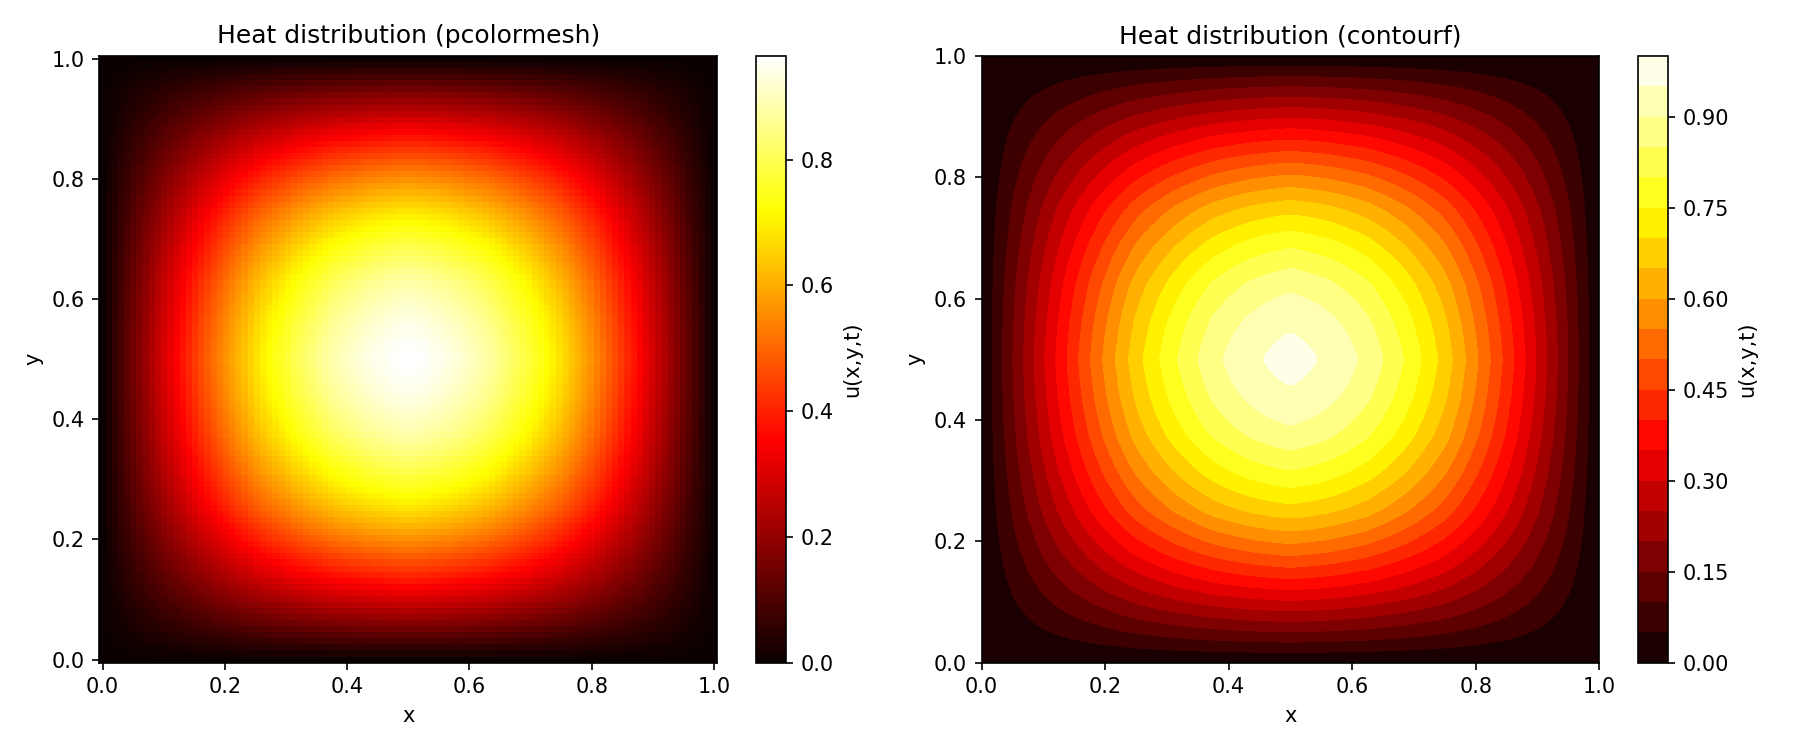
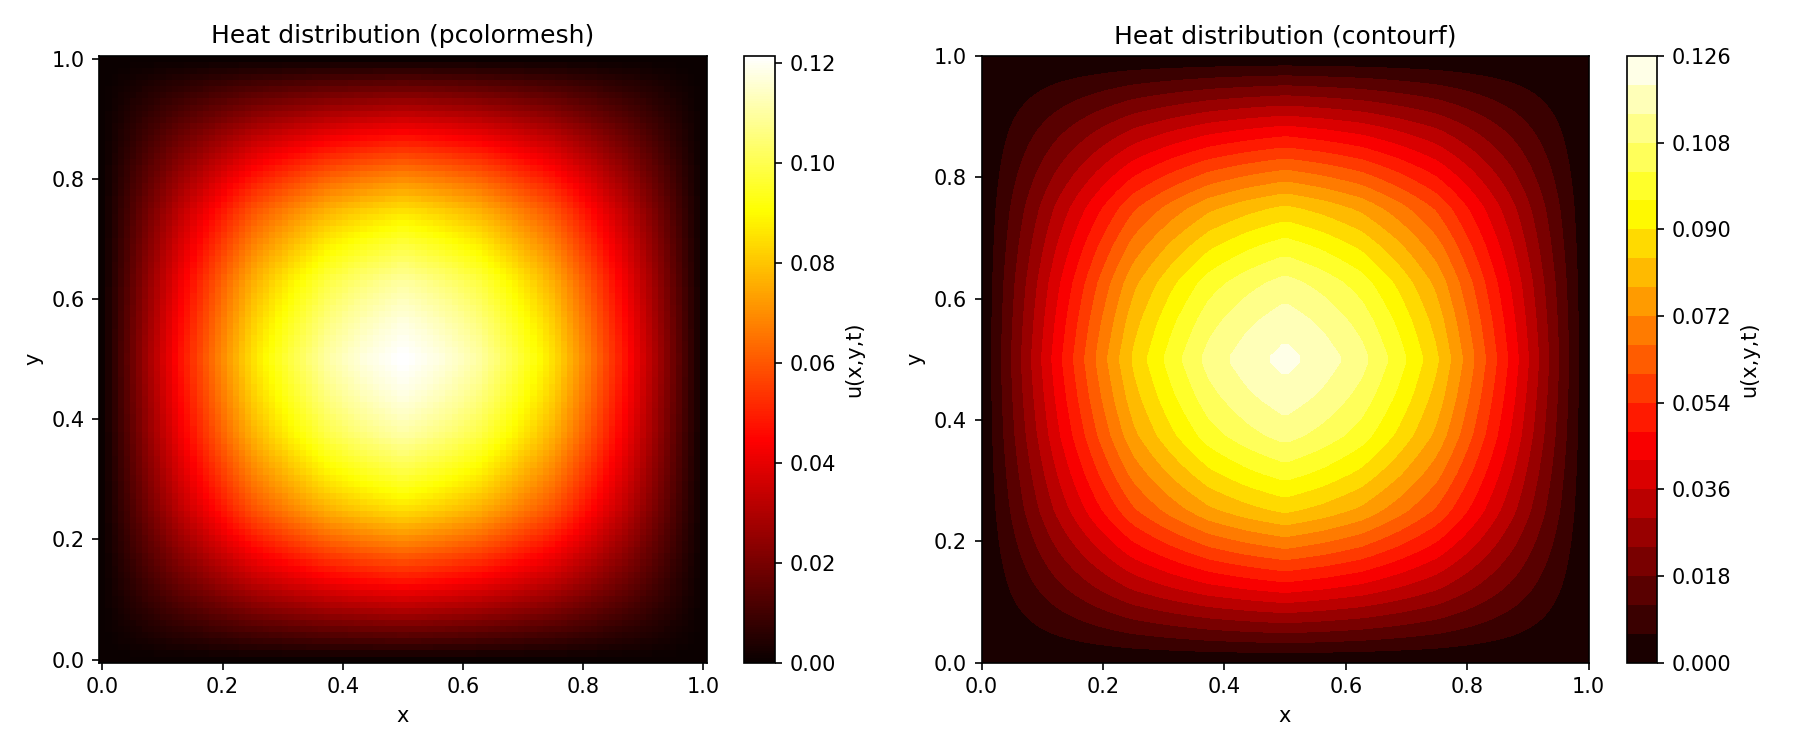
SG: run dim=7 on simple heat eq.

diff --git a/SG/heat.py b/SG/heat.py
@@ -1,21 +1,29 @@
+
+###############################################################################
+################## SPARSE GRIDS ###############################################
+###############################################################################
 import pysgpp
-import numpy as np
+
 
 # 1. Initialize Grid (Zero Dirichlet boundaries)
-dim = 2
+dim = 7
 level = 5
 grid = pysgpp.Grid.createLinearGrid(dim)
 grid.getGenerator().regular(level)
 gridStorage = grid.getStorage()
 
+
 # 2. Set Initial Condition u(x,y,0) = sin(pi*x)*sin(pi*y)
+import numpy as np
 node_values = pysgpp.DataVector(gridStorage.getSize())
 for i in range(gridStorage.getSize()):
     pt = gridStorage.getPoint(i)
-    x, y = pt.getStandardCoordinate(0), pt.getStandardCoordinate(1)
-    node_values[i] = np.sin(np.pi * x) * np.sin(np.pi * y)
+    node_values[i] = 1.0
+    for di in range(dim):
+        node_values[i] *= np.sin(np.pi * pt.getStandardCoordinate(di))
 
 alpha = pysgpp.DataVector(node_values)
+print(f"len(alpha) = {len(alpha)}")
 pysgpp.createOperationHierarchisation(grid).doHierarchisation(alpha)
 
 # 3. Setup PDE Operators
@@ -27,15 +35,18 @@ dt = 0.001
 steps = 100
 diffusivity = 0.1
 
+print("Starting calculation...")
 for step in range(steps):
     opLaplace.mult(alpha, laplace_res)
     laplace_res.mult(dt * diffusivity)
     alpha.sub(laplace_res) # Approximation omitting Mass Matrix inversion
-print(len(alpha))
+print("Calculation done.")
 
 
-import numpy as np
-import matplotlib.pyplot as plt
+
+###############################################################################
+################## PLOT RESULTS ###############################################
+###############################################################################
 
 # --- Resolution of the plot ---
 N = 100
@@ -49,10 +60,11 @@ Z = np.zeros((N, N))
 
 for i in range(N):
     for j in range(N):
-        pt = pysgpp.DataVector([X[i, j], Y[i, j]])
+        pt = pysgpp.DataVector([X[i, j], Y[i, j]] + (dim-2)*[0.23])
         Z[i, j] = op_eval.eval(alpha, pt)
 
 # --- Plot ---
+import matplotlib.pyplot as plt
 fig, axes = plt.subplots(1, 2, figsize=(12, 5))
 
 # Heatmap
